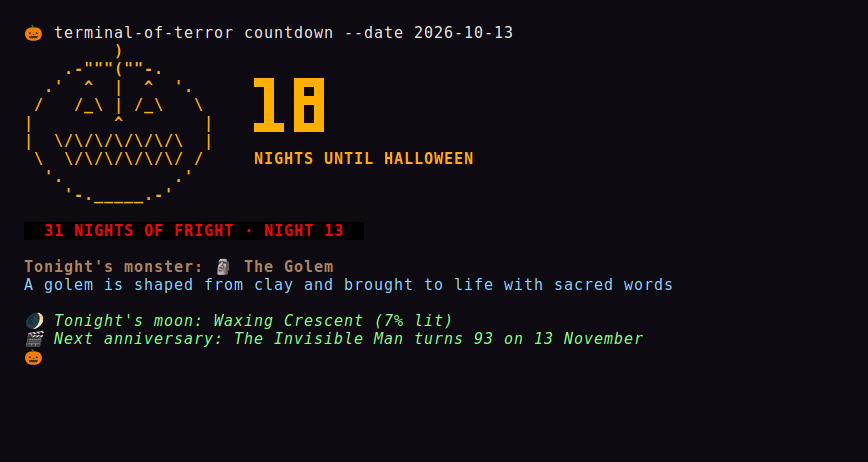
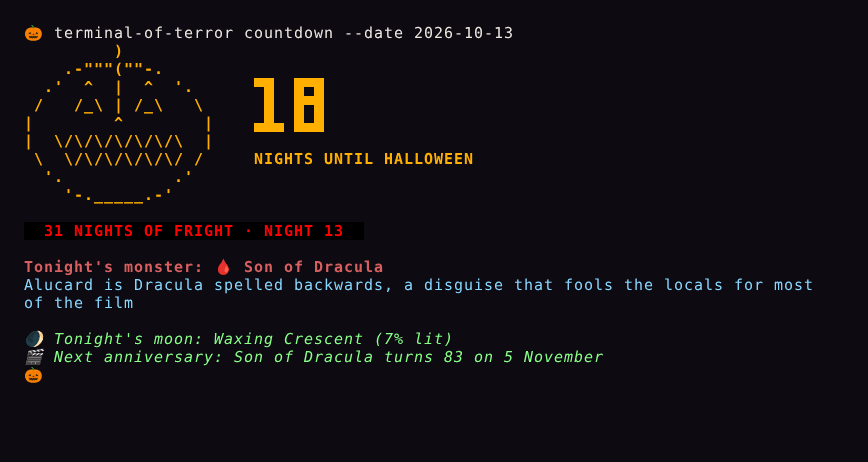
docs: re-record the demos for 43 monsters
Every GIF and screenshot in docs/assets is re-recorded with
docs/demos/render.sh. The list and crypt frames are taller for the
bigger roster; the quiz and guess tapes press the keys that seed 13
now calls for; the alt texts in the README and on the site describe
what the new recordings show. The Draugr's emoji becomes 👣 (the
"again-walker"), since the tombstone glyph is too new for the
recorder's terminal and drew one cell wide.

Claude-Session: https://claude.ai/code/session_012JtbXb8ej9wYY4xGBzaTku

diff --git a/site/templates/home.html b/site/templates/home.html
@@ -131,7 +131,7 @@ terminal-of-terror monster --no-intro  <span class="c"># skip the static</span><
   <h2><span class="h-emoji">🧠</span> Games</h2>
   <div class="games">
     <article class="game">
-      <img src="{{$root}}assets/quiz.gif" alt="The Midnight Quiz: a true-or-false question, a wrong answer with its explanation, and a final rank" loading="lazy">
+      <img src="{{$root}}assets/quiz.gif" alt="The Midnight Quiz: a question about where the Kappa first appeared, a wrong answer with its explanation, and a final rank" loading="lazy">
       <h3>The Midnight Quiz</h3>
       <p>Questions built from the monster data: facts, film credits, lines from the novels and myth checks. Every answer explains itself, so you learn as you play. Finish with a rank from <strong>Ghoul-in-Training</strong> to <strong>Master of Horror</strong>.</p>
       <pre class="term" data-copy><code>terminal-of-terror quiz
@@ -139,7 +139,7 @@ terminal-of-terror quiz -n 5
 terminal-of-terror quiz dracula</code></pre>
     </article>
     <article class="game">
-      <img src="{{$root}}assets/guess.gif" alt="Guess the Monster: a portrait slowly clears from the fog as clues appear" loading="lazy">
+      <img src="{{$root}}assets/guess.gif" alt="Guess the Monster: the Sasquatch's portrait slowly clears from the fog as clues appear" loading="lazy">
       <h3>Guess the Monster</h3>
       <p>A portrait is hidden in the fog. Press <kbd>space</kbd> to clear a little more (clues appear as it lifts), but every clearing costs points. Name the monster through the thickest fog for the <strong>Eagle Eye</strong> badge.</p>
       <pre class="term" data-copy><code>terminal-of-terror guess
@@ -183,13 +183,13 @@ terminal-of-terror crypt reset   <span class="c"># release them all and start ag
       <pre class="term" data-copy><code>terminal-of-terror tonight
 terminal-of-terror tonight --shuffle
 terminal-of-terror tonight --date 2026-10-31</code></pre>
-      <img class="shot" src="{{$root}}assets/tonight.png" alt="A double-feature ticket for Halloween night: Dracula's Daughter (1936) and Krampus" loading="lazy">
+      <img class="shot" src="{{$root}}assets/tonight.png" alt="A double-feature ticket for Halloween night: The Picture of Dorian Gray (1945) and El Chupacabra" loading="lazy">
     </article>
     <article>
       <h3>🎃 The Halloween Countdown</h3>
       <p>The nights until Halloween, tonight's moon and the next film anniversary. During October it's the <strong>31 Nights of Fright</strong>, with a different monster featured every night.</p>
       <pre class="term" data-copy><code>terminal-of-terror countdown</code></pre>
-      <img class="shot" src="{{$root}}assets/countdown.png" alt="A jack-o'-lantern beside '18 nights until Halloween', with Night 13 of the 31 Nights of Fright featuring the Golem" loading="lazy">
+      <img class="shot" src="{{$root}}assets/countdown.png" alt="A jack-o'-lantern beside '18 nights until Halloween', with Night 13 of the 31 Nights of Fright featuring Son of Dracula" loading="lazy">
     </article>
     <article>
       <h3>✨ The Fact of the Night</h3>
@@ -197,7 +197,7 @@ terminal-of-terror tonight --date 2026-10-31</code></pre>
       <pre class="term" data-copy><code>terminal-of-terror random --daily
 terminal-of-terror random --date 2026-11-21
 terminal-of-terror random</code></pre>
-      <img class="shot" src="{{$root}}assets/random.png" alt="The Fact of the Night card for 21 November, marking Frankenstein's 95th anniversary" loading="lazy">
+      <img class="shot" src="{{$root}}assets/random.png" alt="The Fact of the Night card for 21 November: a Baba Yaga fact, and a note that Frankenstein opened 95 years ago tonight" loading="lazy">
     </article>
   </div>
 </section>

diff --git a/README.md b/README.md
@@ -148,14 +148,14 @@ terminal-of-terror quiz dracula
 </td>
 <td width="50%" valign="top">
 
-<img src="docs/assets/quiz.gif" alt="The Midnight Quiz: a true-or-false question, a wrong answer with its explanation, and a final rank" width="100%">
+<img src="docs/assets/quiz.gif" alt="The Midnight Quiz: a question about where the Kappa first appeared, a wrong answer with its explanation, and a final rank" width="100%">
 
 </td>
 </tr>
 <tr>
 <td width="50%" valign="top">
 
-<img src="docs/assets/guess.gif" alt="Guess the Monster: a portrait slowly clears from the fog as clues appear" width="100%">
+<img src="docs/assets/guess.gif" alt="Guess the Monster: the Sasquatch's portrait slowly clears from the fog as clues appear" width="100%">
 
 </td>
 <td width="50%" valign="top">
@@ -242,7 +242,7 @@ terminal-of-terror tonight --shuffle          # a different bill
 terminal-of-terror tonight --date 2026-10-31  # what's on for Halloween?
 ```
 
-<img src="docs/assets/tonight.png" alt="A double-feature ticket for Halloween night: Dracula's Daughter (1936) and Krampus" width="620">
+<img src="docs/assets/tonight.png" alt="A double-feature ticket for Halloween night: The Picture of Dorian Gray (1945) and El Chupacabra" width="620">
 
 ### 🎃 The Halloween Countdown
 
@@ -252,7 +252,7 @@ The nights until Halloween, tonight's moon and the next film anniversary. During
 terminal-of-terror countdown
 ```
 
-<img src="docs/assets/countdown.png" alt="A jack-o'-lantern beside '18 nights until Halloween', with Night 13 of the 31 Nights of Fright featuring the Golem" width="620">
+<img src="docs/assets/countdown.png" alt="A jack-o'-lantern beside '18 nights until Halloween', with Night 13 of the 31 Nights of Fright featuring Son of Dracula" width="620">
 
 ### ✨ The Fact of the Night
 
@@ -264,7 +264,7 @@ terminal-of-terror random --date 2026-11-21
 terminal-of-terror random                     # or just any old fact
 ```
 
-<img src="docs/assets/random.png" alt="The Fact of the Night card for 21 November, marking Frankenstein's 95th anniversary" width="620">
+<img src="docs/assets/random.png" alt="The Fact of the Night card for 21 November: a Baba Yaga fact, and a note that Frankenstein opened 95 years ago tonight" width="620">
 
 ## 📜 The roster
 
@@ -306,7 +306,7 @@ terminal-of-terror random                     # or just any old fact
 | 🐎 | **The Nuckelavee** | Orkney folklore, Scotland |
 | 👹 | **The Rakshasa** | Hindu mythology and the Sanskrit epics |
 | 🌺 | **The Pontianak** | Malay and Indonesian folklore |
-| 🪦 | **The Draugr** | The Icelandic sagas |
+| 👣 | **The Draugr** | The Icelandic sagas |
 | 🐊 | **The Bunyip** | Aboriginal Australian traditions of the south-east |
 
 ### Cryptids · `--pack cryptids`

diff --git a/CONTRIBUTING.md b/CONTRIBUTING.md
@@ -157,7 +157,7 @@ docs/demos/render.sh hero quiz    # just some
 
 You'll need `go`, `vhs`, `ffmpeg` and **ttyd 1.7.7 or newer**. Older ttyd builds draw emoji one cell wide, which knocks every box border out of line; `TTYD=/path/to/ttyd` picks a specific binary. The script builds the app, uses a scratch home directory with sample crypt progress, and writes the results to `docs/assets/`. Look at the results before committing, and keep the hero GIF under about 2 MB so the README loads quickly.
 
-Recordings are repeatable: `render.sh` sets `TERMINAL_OF_TERROR_SEED` (13 unless you set `DEMO_SEED`), which fixes every random choice (quiz questions, portraits, fights and the host's lines), so the keys a tape presses always get the same result. If you change the seed or the monster data, check that each tape still shows what it should: the guess tape, for example, expects the right answer to be option 1. `TERMINAL_OF_TERROR_SEED` is also handy for reproducing a bug report.
+Recordings are repeatable: `render.sh` sets `TERMINAL_OF_TERROR_SEED` (13 unless you set `DEMO_SEED`), which fixes every random choice (quiz questions, portraits, fights and the host's lines), so the keys a tape presses always get the same result. If you change the seed or the monster data, check that each tape still shows what it should: the guess tape, for example, expects the right answer to be option 4. `TERMINAL_OF_TERROR_SEED` is also handy for reproducing a bug report.
 
 To add a demo, copy a similar tape, change its `Output` line and commands, and add its name to the `stills` list in `render.sh` if it should be a PNG rather than a GIF. Keep `Set Theme @theme.json` and `Set Framerate` in the tape: the script fills in the theme and reads the frame rate back when encoding.
 
